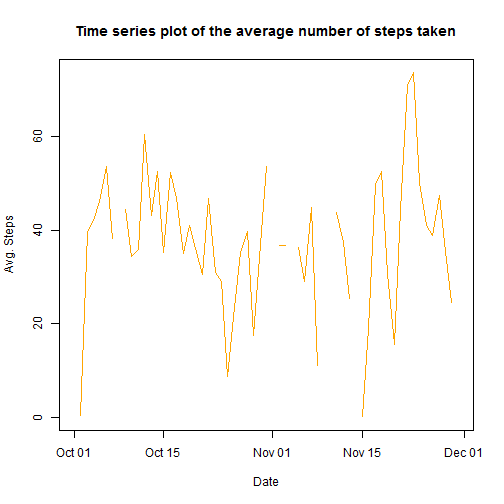
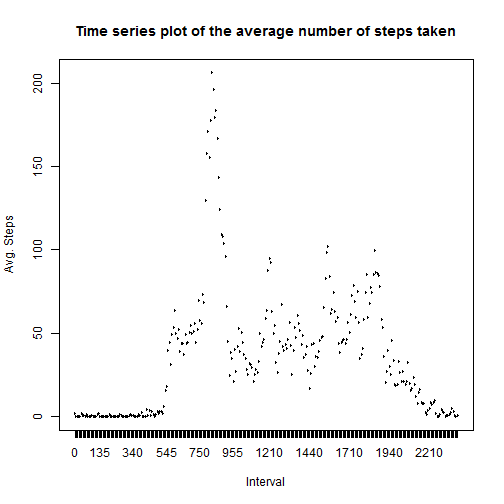
fixing the mistake

diff --git a/PA1_template.html b/PA1_template.html
@@ -146,19 +146,15 @@ barplot(x,col=&quot;lavender&quot;,las=3, ylab=&quot;Frequencies&quot;, main=&qu
 <p>From the data we can calculate that the mean of steps taken per day = <strong>9354.2295082</strong> and median = <strong>10395</strong>.</p>
 <p>Time series plot of the average number of steps taken<br />
 This can be obtained by calling a combination of tapply and plot functions.</p>
-<pre class="r"><code>avg.daily.steps &lt;- as.data.frame(as.table(tapply(activity$steps, activity$date, mean, na.rm=TRUE)))
-colnames(avg.daily.steps) &lt;- c(&quot;Date&quot;,&quot;AvgSteps&quot;)
-avg.daily.steps$Date &lt;- as.Date(avg.daily.steps$Date, format=&quot;%Y-%m-%d&quot;)
-plot(x=avg.daily.steps$Date, y=avg.daily.steps$AvgSteps, pch=20, 
-     col=&quot;orange&quot;, main=&quot;Time series plot of the average number of steps taken&quot; ,
-     xlab=&quot;Date&quot;, ylab=&quot;Avg. Steps&quot;, type=&quot;l&quot;)</code></pre>
[1 lines of base64/hex data omitted]
-<p>The 5-minute interval that, on average, contains the maximum number of steps Now we will have to find average of steps per interval. time to call tapply again. Only this time, groups will be formed w.r.t interval</p>
-<pre class="r"><code>avg.interval.steps &lt;- as.data.frame(
-    as.table(tapply(activity$steps, activity$interval, mean, na.rm=TRUE)))
-colnames(avg.interval.steps) &lt;- c(&quot;Interval&quot;,&quot;AvgSteps&quot;)
-most.active.interval &lt;- avg.interval.steps$Interval[
-    avg.interval.steps$AvgSteps == max(avg.interval.steps$AvgSteps)]</code></pre>
+<pre class="r"><code>avg.steps.per.interval &lt;- as.data.frame(as.table(tapply(activity$steps, activity$interval, mean, na.rm=TRUE)))
+colnames(avg.steps.per.interval) &lt;- c(&quot;Interval&quot;,&quot;AvgSteps&quot;)
+plot(x=avg.steps.per.interval$Interval, y=avg.steps.per.interval$AvgSteps,
+     main=&quot;Time series plot of the average number of steps taken&quot; ,
+     xlab=&quot;Interval&quot;, ylab=&quot;Avg. Steps&quot;, type=&quot;l&quot;)</code></pre>
[1 lines of base64/hex data omitted]
+<p>The 5-minute interval that, on average, contains the maximum number of steps</p>
+<pre class="r"><code>most.active.interval &lt;- avg.steps.per.interval$Interval[
+    avg.steps.per.interval$AvgSteps == max(avg.steps.per.interval$AvgSteps)]</code></pre>
 <p>As we can see that highest number of steps were recorded in the <strong>835</strong> interval.</p>
 <p>Code to describe and show a strategy for imputing missing data</p>
 <p><strong>15.0943396%</strong> of the values are missing. Let’s see the pattern of the missing values.</p>

diff --git a/PA1_template.md b/PA1_template.md
@@ -57,12 +57,11 @@ Time series plot of the average number of steps taken
 This can be obtained by calling a combination of tapply and plot functions.
 
 ```r
-avg.daily.steps <- as.data.frame(as.table(tapply(activity$steps, activity$date, mean, na.rm=TRUE)))
-colnames(avg.daily.steps) <- c("Date","AvgSteps")
-avg.daily.steps$Date <- as.Date(avg.daily.steps$Date, format="%Y-%m-%d")
-plot(x=avg.daily.steps$Date, y=avg.daily.steps$AvgSteps, pch=20, 
-     col="orange", main="Time series plot of the average number of steps taken" ,
-     xlab="Date", ylab="Avg. Steps", type="l")
+avg.daily.steps <- as.data.frame(as.table(tapply(activity$steps, activity$interval, mean, na.rm=TRUE)))
+colnames(avg.daily.steps) <- c("Interval","AvgSteps")
+plot(x=avg.daily.steps$Interval, y=avg.daily.steps$AvgSteps,
+     main="Time series plot of the average number of steps taken" ,
+     xlab="Interval", ylab="Avg. Steps")
 ```
 
 ![plot of chunk unnamed-chunk-6](figure/unnamed-chunk-6-1.png)
